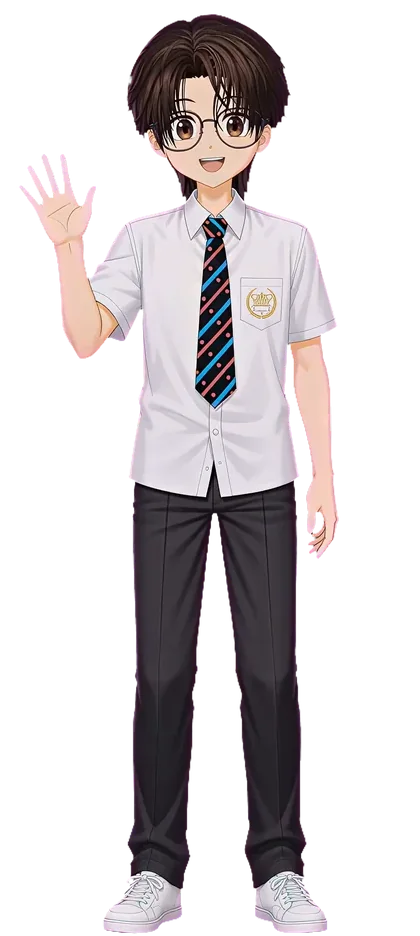
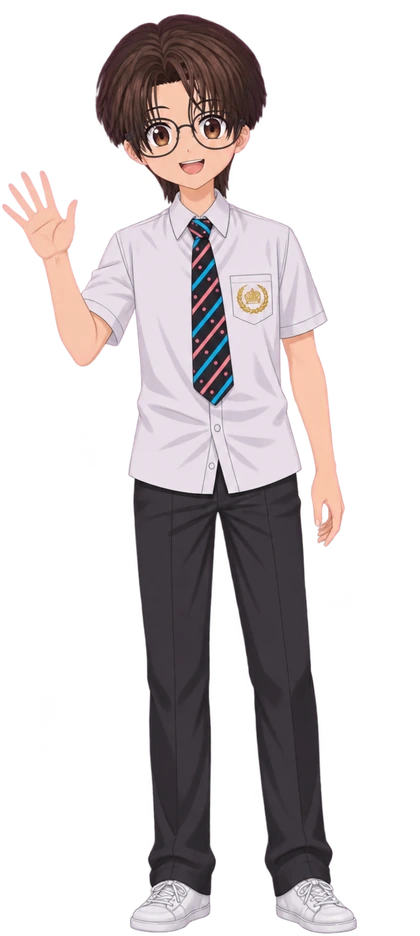
Mascot: use the hi-res idle illustration as the resting frame
Replaces the video's last frame with the 1024x1536 transparent render. Scaled to the existing 920px character height and aligned bottom/centre on the shared 420x936 canvas, so the swap into idle keeps the character in place.

Changed region(s): [[0.0, 0.0, 0.8667, 1.0]]

diff --git a/docs/cn/assets/index-BoST3PRS.js b/docs/cn/assets/index-BoST3PRS.js
@@ -1,4 +1,4 @@
-import{d as st,o as R,a as i,c as r,b as t,u as g,t as m,F as y,r as j,n as k,e as f,f as ot,g as E,h as T,w as nt,T as at,i as S,j as A,k as U,s as it,l as rt,S as lt,m as ct,p as _t,q as ut,v as dt}from"./vendor-s8T_hoLx.js";(function(){const p=document.createElement("link").relList;if(p&&p.supports&&p.supports("modulepreload"))return;for(const n of document.querySelectorAll('link[rel="modulepreload"]'))u(n);new MutationObserver(n=>{for(const e of n)if(e.type==="childList")for(const c of e.addedNodes)c.tagName==="LINK"&&c.rel==="modulepreload"&&u(c)}).observe(document,{childList:!0,subtree:!0});function _(n){const e={};return n.integrity&&(e.integrity=n.integrity),n.referrerPolicy&&(e.referrerPolicy=n.referrerPolicy),n.crossOrigin==="use-credentials"?e.credentials="include":n.crossOrigin==="anonymous"?e.credentials="omit":e.credentials="same-origin",e}function u(n){if(n.ep)return;n.ep=!0;const e=_(n);fetch(n.href,e)}})();const D=st("main",{state:()=>({isMobile:!1}),getters:{},actions:{setIsMobile(w){this.isMobile=w}}}),B={Introduce:"介绍",Conversations:"闲聊",Abilities:"技能",Jobs:"经历",Products:"项目",Works:"作品",Pricing:"服务",Footer:"联系",AgeTitle:"版本号就是年龄",ToggleNavigation:"展开或收起导航",Name:"ZH"},pt=""+new URL("logo-Db9L0T7k.png",import.meta.url).href,O=(w,p)=>{const _=w.__vccOpts||w;for(const[u,n]of p)_[u]=n;return _},mt={class:"navbar navbar-expand-lg py-2 mb-3 jn-navbar-top"},bt={id:"navbar-top",class:"container-xl"},gt={class:"jn-logo"},vt={class:"navbar-brand flex align-items-center align-content-center",href:"#"},ht=["src"],wt={class:"fw-bold"},ft=["title"],kt=["aria-label"],yt={class:"collapse navbar-collapse justify-content-end",id:"navbarNavAltMarkup"},jt={class:"navbar-nav align-items-lg-center"},$t=["href"],Lt={class:"jn-language-switch ms-lg-3 mt-2 mt-lg-0","aria-label":"Language switcher"},Tt={__name:"Nav",setup(w){const p=f(0),_=window.location.pathname.startsWith("/cn")?"cn":"en",u=()=>{const n=new Date,e=new Date("1997-05-09"),c=n.getTime()-e.getTime(),s=new Date(c),o=Math.abs(s.getUTCFullYear()-1970)+s.getMonth()/12;p.value=o.toFixed(2)};return R(()=>{u()}),(n,e)=>(i(),r("header",mt,[t("nav",bt,[t("div",gt,[t("a",vt,[t("span",null,[t("img",{src:g(pt),alt:"logo",class:"jn-logo-img"},null,8,ht)]),t("span",wt,m(g(B).Name),1),t("span",{class:"fw-lighter",title:g(B).AgeTitle},".v"+m(p.value),9,ft)])]),t("button",{class:"navbar-toggler",type:"button","data-bs-toggle":"collapse","data-bs-target":"#navbarNavAltMarkup","aria-controls":"navbarNavAltMarkup","aria-expanded":"false","aria-label":g(B).ToggleNavigation},[...e[0]||(e[0]=[t("span",{class:"navbar-toggler-icon bg-transparent"},null,-1)])],8,kt),t("div",yt,[t("div",jt,[(i(),r(y,null,j(["Introduce","Conversations","Abilities","Jobs","Products","Works","Pricing","Footer"],c=>t("a",{key:c,class:"nav-link",href:`#${c}`},m(g(B)[c]),9,$t)),64)),t("div",Lt,[t("a",{href:"/cn/",class:k(["jn-language-link",{active:g(_)==="cn"}])},"中文",2),e[1]||(e[1]=t("span",{class:"jn-language-divider"},"/",-1)),t("a",{href:"/en/",class:k(["jn-language-link",{active:g(_)==="en"}])},"EN",2)])])])])]))}},Ot=O(Tt,[["__scopeId","data-v-7a4690d1"]]),Pt=""+new URL("idle-BwSroPrR.webp",import.meta.url).href,Rt=""+new URL("sleep-CzAoqFjt.webp",import.meta.url).href,Et=""+new URL("wake-00-DN9Y4CSs.webp",import.meta.url).href,Mt=""+new URL("wake-01-Bv2dePcG.webp",import.meta.url).href,St=""+new URL("wake-02-Dmfc-U6B.webp",import.meta.url).href,xt=""+new URL("wake-03-CuV1K9-x.webp",import.meta.url).href,It=""+new URL("wake-04-BV5S5SvW.webp",import.meta.url).href,At=""+new URL("wake-05-D4VqDZ3a.webp",import.meta.url).href,Ut=""+new URL("wake-06-CJhW7F4F.webp",import.meta.url).href,Dt=""+new URL("wake-07-CzwcbVn1.webp",import.meta.url).href,Ct=""+new URL("wake-08-D4vhZMsg.webp",import.meta.url).href,Ht=""+new URL("wake-09-BevarwNR.webp",import.meta.url).href,Bt=""+new URL("wake-10-ClhOjqDR.webp",import.meta.url).href,Vt=""+new URL("wake-11-DqSW_ptq.webp",import.meta.url).href,Ft=""+new URL("wake-12-D0e6i30U.webp",import.meta.url).href,zt=""+new URL("wake-13-CSTUK416.webp",import.meta.url).href,Wt=""+new URL("wake-14-6mSzm22m.webp",import.meta.url).href,Nt=""+new URL("wake-15-ybOg6HvE.webp",import.meta.url).href,qt=""+new URL("wake-16-C1YWqiRs.webp",import.meta.url).href,Kt=""+new URL("wake-17-BjNacx78.webp",import.meta.url).href,Zt=""+new URL("wake-18-O_J7od46.webp",import.meta.url).href,Jt=""+new URL("wake-19-C_Ts8d8w.webp",import.meta.url).href,Yt=""+new URL("wake-20-DKbm1HMG.webp",import.meta.url).href,Gt=""+new URL("wake-21-Dydp0pBq.webp",import.meta.url).href,Qt=""+new URL("wake-22-BlcfPlws.webp",import.meta.url).href,Xt=""+new URL("wake-23-dwHPlfZE.webp",import.meta.url).href,te=""+new URL("wake-24-DfC45VwX.webp",import.meta.url).href,ee=""+new URL("wake-25-CZkZKRLK.webp",import.meta.url).href,se=""+new URL("wake-26-Bblns2dO.webp",import.meta.url).href,oe=""+new URL("wake-27-CPUKTgw8.webp",import.meta.url).href,ne=["src"],ae={key:0,class:"jn-mascot-zzz","aria-hidden":"true"},ie={key:0,class:"jn-mascot-bubble"},re=12,le=3e3,ce={__name:"Mascot",props:{lines:{type:Array,default:()=>[]}},setup(w){const p=Object.assign({"../assets/mascot/idle.webp":Pt,"../assets/mascot/sleep.webp":Rt,"../assets/mascot/wake-00.webp":Et,"../assets/mascot/wake-01.webp":Mt,"../assets/mascot/wake-02.webp":St,"../assets/mascot/wake-03.webp":xt,"../assets/mascot/wake-04.webp":It,"../assets/mascot/wake-05.webp":At,"../assets/mascot/wake-06.webp":Ut,"../assets/mascot/wake-07.webp":Dt,"../assets/mascot/wake-08.webp":Ct,"../assets/mascot/wake-09.webp":Ht,"../assets/mascot/wake-10.webp":Bt,"../assets/mascot/wake-11.webp":Vt,"../assets/mascot/wake-12.webp":Ft,"../assets/mascot/wake-13.webp":zt,"../assets/mascot/wake-14.webp":Wt,"../assets/mascot/wake-15.webp":Nt,"../assets/mascot/wake-16.webp":qt,"../assets/mascot/wake-17.webp":Kt,"../assets/mascot/wake-18.webp":Zt,"../assets/mascot/wake-19.webp":Jt,"../assets/mascot/wake-20.webp":Yt,"../assets/mascot/wake-21.webp":Gt,"../assets/mascot/wake-22.webp":Qt,"../assets/mascot/wake-23.webp":Xt,"../assets/mascot/wake-24.webp":te,"../assets/mascot/wake-25.webp":ee,"../assets/mascot/wake-26.webp":se,"../assets/mascot/wake-27.webp":oe}),_=L=>p[`../assets/mascot/${L}.webp`],u=_("sleep"),n=_("idle"),e=Object.keys(p).filter(L=>L.includes("/wake-")).sort().map(L=>p[L]),c=w,s=f("sleep"),b=f(0),o=f(!1),a=f(!1),d=f(""),l=S(()=>s.value==="wake"?e[b.value]||n:s.value==="sleep"?u:n),v=["……","Hi."],$=S(()=>c.lines&&c.lines.length?c.lines:v);let P=[],M=null;const C=(L,x)=>{const H=setTimeout(L,x);return P.push(H),H},G=()=>{P.forEach(clearTimeout),P=[],M&&(clearInterval(M),M=null)},z=(L=2400)=>{d.value=$.value[Math.floor(Math.random()*$.value.length)],C(()=>{d.value=""},L)},Q=()=>{s.value="wake",b.value=0,M=setInterval(()=>{if(b.value>=e.length-1){clearInterval(M),M=null,s.value="idle";return}b.value+=1},1e3/re)},X=()=>{o.value=!0,s.value!=="sleep"&&z()},tt=()=>{o.value=!1},et=()=>{a.value=!0,z(1700),C(()=>{a.value=!1},640)};return R(()=>{const L=()=>{[...e,n].forEach(x=>{const H=new Image;H.src=x})};if("requestIdleCallback"in window?window.requestIdleCallback(L,{timeout:2e3}):C(L,800),window.matchMedia("(prefers-reduced-motion: reduce)").matches){s.value="idle";return}C(Q,le)}),ot(G),(L,x)=>(i(),r("div",{class:k(["jn-mascot",[`is-${s.value}`,{"is-hover":o.value,"is-poke":a.value}]]),onMouseenter:X,onMouseleave:tt,onClick:et},[t("img",{class:"jn-mascot-img",src:l.value,alt:"Zihan Huang",draggable:"false"},null,8,ne),s.value==="sleep"?(i(),r("div",ae,[...x[0]||(x[0]=[t("span",{class:"z1"},"z",-1),t("span",{class:"z2"},"z",-1),t("span",{class:"z3"},"Z",-1)])])):E("",!0),T(at,{name:"jn-bubble"},{default:nt(()=>[d.value?(i(),r("p",ie,m(d.value),1)):E("",!0)]),_:1})],34))}},_e=O(ce,[["__scopeId","data-v-afc21274"]]),V={name:"Zihan Huang",subtitle:"一个没什么灵感的小说作者，一个迷路的旅行者。",button:"链接开始！",mascot:["哦，来了个旅行者。","随便坐，别客气。","先喝点什么？","这地板有点响，走轻点。"]},ue=`<p>你好，旅行者，在找什么吗？</p>
+import{d as st,o as R,a as i,c as r,b as t,u as g,t as m,F as y,r as j,n as k,e as f,f as ot,g as E,h as T,w as nt,T as at,i as S,j as A,k as U,s as it,l as rt,S as lt,m as ct,p as _t,q as ut,v as dt}from"./vendor-s8T_hoLx.js";(function(){const p=document.createElement("link").relList;if(p&&p.supports&&p.supports("modulepreload"))return;for(const n of document.querySelectorAll('link[rel="modulepreload"]'))u(n);new MutationObserver(n=>{for(const e of n)if(e.type==="childList")for(const c of e.addedNodes)c.tagName==="LINK"&&c.rel==="modulepreload"&&u(c)}).observe(document,{childList:!0,subtree:!0});function _(n){const e={};return n.integrity&&(e.integrity=n.integrity),n.referrerPolicy&&(e.referrerPolicy=n.referrerPolicy),n.crossOrigin==="use-credentials"?e.credentials="include":n.crossOrigin==="anonymous"?e.credentials="omit":e.credentials="same-origin",e}function u(n){if(n.ep)return;n.ep=!0;const e=_(n);fetch(n.href,e)}})();const D=st("main",{state:()=>({isMobile:!1}),getters:{},actions:{setIsMobile(w){this.isMobile=w}}}),B={Introduce:"介绍",Conversations:"闲聊",Abilities:"技能",Jobs:"经历",Products:"项目",Works:"作品",Pricing:"服务",Footer:"联系",AgeTitle:"版本号就是年龄",ToggleNavigation:"展开或收起导航",Name:"ZH"},pt=""+new URL("logo-Db9L0T7k.png",import.meta.url).href,O=(w,p)=>{const _=w.__vccOpts||w;for(const[u,n]of p)_[u]=n;return _},mt={class:"navbar navbar-expand-lg py-2 mb-3 jn-navbar-top"},bt={id:"navbar-top",class:"container-xl"},gt={class:"jn-logo"},vt={class:"navbar-brand flex align-items-center align-content-center",href:"#"},ht=["src"],wt={class:"fw-bold"},ft=["title"],kt=["aria-label"],yt={class:"collapse navbar-collapse justify-content-end",id:"navbarNavAltMarkup"},jt={class:"navbar-nav align-items-lg-center"},$t=["href"],Lt={class:"jn-language-switch ms-lg-3 mt-2 mt-lg-0","aria-label":"Language switcher"},Tt={__name:"Nav",setup(w){const p=f(0),_=window.location.pathname.startsWith("/cn")?"cn":"en",u=()=>{const n=new Date,e=new Date("1997-05-09"),c=n.getTime()-e.getTime(),s=new Date(c),o=Math.abs(s.getUTCFullYear()-1970)+s.getMonth()/12;p.value=o.toFixed(2)};return R(()=>{u()}),(n,e)=>(i(),r("header",mt,[t("nav",bt,[t("div",gt,[t("a",vt,[t("span",null,[t("img",{src:g(pt),alt:"logo",class:"jn-logo-img"},null,8,ht)]),t("span",wt,m(g(B).Name),1),t("span",{class:"fw-lighter",title:g(B).AgeTitle},".v"+m(p.value),9,ft)])]),t("button",{class:"navbar-toggler",type:"button","data-bs-toggle":"collapse","data-bs-target":"#navbarNavAltMarkup","aria-controls":"navbarNavAltMarkup","aria-expanded":"false","aria-label":g(B).ToggleNavigation},[...e[0]||(e[0]=[t("span",{class:"navbar-toggler-icon bg-transparent"},null,-1)])],8,kt),t("div",yt,[t("div",jt,[(i(),r(y,null,j(["Introduce","Conversations","Abilities","Jobs","Products","Works","Pricing","Footer"],c=>t("a",{key:c,class:"nav-link",href:`#${c}`},m(g(B)[c]),9,$t)),64)),t("div",Lt,[t("a",{href:"/cn/",class:k(["jn-language-link",{active:g(_)==="cn"}])},"中文",2),e[1]||(e[1]=t("span",{class:"jn-language-divider"},"/",-1)),t("a",{href:"/en/",class:k(["jn-language-link",{active:g(_)==="en"}])},"EN",2)])])])])]))}},Ot=O(Tt,[["__scopeId","data-v-7a4690d1"]]),Pt=""+new URL("idle-BpFn34Q6.webp",import.meta.url).href,Rt=""+new URL("sleep-CzAoqFjt.webp",import.meta.url).href,Et=""+new URL("wake-00-DN9Y4CSs.webp",import.meta.url).href,Mt=""+new URL("wake-01-Bv2dePcG.webp",import.meta.url).href,St=""+new URL("wake-02-Dmfc-U6B.webp",import.meta.url).href,xt=""+new URL("wake-03-CuV1K9-x.webp",import.meta.url).href,It=""+new URL("wake-04-BV5S5SvW.webp",import.meta.url).href,At=""+new URL("wake-05-D4VqDZ3a.webp",import.meta.url).href,Ut=""+new URL("wake-06-CJhW7F4F.webp",import.meta.url).href,Dt=""+new URL("wake-07-CzwcbVn1.webp",import.meta.url).href,Ct=""+new URL("wake-08-D4vhZMsg.webp",import.meta.url).href,Ht=""+new URL("wake-09-BevarwNR.webp",import.meta.url).href,Bt=""+new URL("wake-10-ClhOjqDR.webp",import.meta.url).href,Vt=""+new URL("wake-11-DqSW_ptq.webp",import.meta.url).href,Ft=""+new URL("wake-12-D0e6i30U.webp",import.meta.url).href,zt=""+new URL("wake-13-CSTUK416.webp",import.meta.url).href,Wt=""+new URL("wake-14-6mSzm22m.webp",import.meta.url).href,Nt=""+new URL("wake-15-ybOg6HvE.webp",import.meta.url).href,qt=""+new URL("wake-16-C1YWqiRs.webp",import.meta.url).href,Kt=""+new URL("wake-17-BjNacx78.webp",import.meta.url).href,Zt=""+new URL("wake-18-O_J7od46.webp",import.meta.url).href,Jt=""+new URL("wake-19-C_Ts8d8w.webp",import.meta.url).href,Yt=""+new URL("wake-20-DKbm1HMG.webp",import.meta.url).href,Gt=""+new URL("wake-21-Dydp0pBq.webp",import.meta.url).href,Qt=""+new URL("wake-22-BlcfPlws.webp",import.meta.url).href,Xt=""+new URL("wake-23-dwHPlfZE.webp",import.meta.url).href,te=""+new URL("wake-24-DfC45VwX.webp",import.meta.url).href,ee=""+new URL("wake-25-CZkZKRLK.webp",import.meta.url).href,se=""+new URL("wake-26-Bblns2dO.webp",import.meta.url).href,oe=""+new URL("wake-27-CPUKTgw8.webp",import.meta.url).href,ne=["src"],ae={key:0,class:"jn-mascot-zzz","aria-hidden":"true"},ie={key:0,class:"jn-mascot-bubble"},re=12,le=3e3,ce={__name:"Mascot",props:{lines:{type:Array,default:()=>[]}},setup(w){const p=Object.assign({"../assets/mascot/idle.webp":Pt,"../assets/mascot/sleep.webp":Rt,"../assets/mascot/wake-00.webp":Et,"../assets/mascot/wake-01.webp":Mt,"../assets/mascot/wake-02.webp":St,"../assets/mascot/wake-03.webp":xt,"../assets/mascot/wake-04.webp":It,"../assets/mascot/wake-05.webp":At,"../assets/mascot/wake-06.webp":Ut,"../assets/mascot/wake-07.webp":Dt,"../assets/mascot/wake-08.webp":Ct,"../assets/mascot/wake-09.webp":Ht,"../assets/mascot/wake-10.webp":Bt,"../assets/mascot/wake-11.webp":Vt,"../assets/mascot/wake-12.webp":Ft,"../assets/mascot/wake-13.webp":zt,"../assets/mascot/wake-14.webp":Wt,"../assets/mascot/wake-15.webp":Nt,"../assets/mascot/wake-16.webp":qt,"../assets/mascot/wake-17.webp":Kt,"../assets/mascot/wake-18.webp":Zt,"../assets/mascot/wake-19.webp":Jt,"../assets/mascot/wake-20.webp":Yt,"../assets/mascot/wake-21.webp":Gt,"../assets/mascot/wake-22.webp":Qt,"../assets/mascot/wake-23.webp":Xt,"../assets/mascot/wake-24.webp":te,"../assets/mascot/wake-25.webp":ee,"../assets/mascot/wake-26.webp":se,"../assets/mascot/wake-27.webp":oe}),_=L=>p[`../assets/mascot/${L}.webp`],u=_("sleep"),n=_("idle"),e=Object.keys(p).filter(L=>L.includes("/wake-")).sort().map(L=>p[L]),c=w,s=f("sleep"),b=f(0),o=f(!1),a=f(!1),d=f(""),l=S(()=>s.value==="wake"?e[b.value]||n:s.value==="sleep"?u:n),v=["……","Hi."],$=S(()=>c.lines&&c.lines.length?c.lines:v);let P=[],M=null;const C=(L,x)=>{const H=setTimeout(L,x);return P.push(H),H},G=()=>{P.forEach(clearTimeout),P=[],M&&(clearInterval(M),M=null)},z=(L=2400)=>{d.value=$.value[Math.floor(Math.random()*$.value.length)],C(()=>{d.value=""},L)},Q=()=>{s.value="wake",b.value=0,M=setInterval(()=>{if(b.value>=e.length-1){clearInterval(M),M=null,s.value="idle";return}b.value+=1},1e3/re)},X=()=>{o.value=!0,s.value!=="sleep"&&z()},tt=()=>{o.value=!1},et=()=>{a.value=!0,z(1700),C(()=>{a.value=!1},640)};return R(()=>{const L=()=>{[...e,n].forEach(x=>{const H=new Image;H.src=x})};if("requestIdleCallback"in window?window.requestIdleCallback(L,{timeout:2e3}):C(L,800),window.matchMedia("(prefers-reduced-motion: reduce)").matches){s.value="idle";return}C(Q,le)}),ot(G),(L,x)=>(i(),r("div",{class:k(["jn-mascot",[`is-${s.value}`,{"is-hover":o.value,"is-poke":a.value}]]),onMouseenter:X,onMouseleave:tt,onClick:et},[t("img",{class:"jn-mascot-img",src:l.value,alt:"Zihan Huang",draggable:"false"},null,8,ne),s.value==="sleep"?(i(),r("div",ae,[...x[0]||(x[0]=[t("span",{class:"z1"},"z",-1),t("span",{class:"z2"},"z",-1),t("span",{class:"z3"},"Z",-1)])])):E("",!0),T(at,{name:"jn-bubble"},{default:nt(()=>[d.value?(i(),r("p",ie,m(d.value),1)):E("",!0)]),_:1})],34))}},_e=O(ce,[["__scopeId","data-v-afc21274"]]),V={name:"Zihan Huang",subtitle:"一个没什么灵感的小说作者，一个迷路的旅行者。",button:"链接开始！",mascot:["哦，来了个旅行者。","随便坐，别客气。","先喝点什么？","这地板有点响，走轻点。"]},ue=`<p>你好，旅行者，在找什么吗？</p>
 <p>欢迎来到 Zihan Huang，也就是 Henry 的线上小酒馆。这里收录了关于他的各种信息——从基本资料，到还算拿得出手的 <strong>技能</strong> 与 <strong>属性</strong>，以及曾经雇佣过他的 <strong>公司</strong>。</p>
 <p>这个地方存在的意义？大概只是想在这片充满冒险的世界里，留下几道属于他的旅途痕迹。</p>
 <p>在点杯喝的之前，有几件事要说明：</p>

diff --git a/docs/en/assets/index-DN1UQKK4.js b/docs/en/assets/index-DN1UQKK4.js
@@ -1,4 +1,4 @@
-import{d as st,o as E,a as i,c as r,b as t,u as g,t as p,F as y,r as j,n as k,e as f,f as ot,g as R,h as T,w as at,T as nt,i as M,j as A,k as C,s as it,l as rt,S as lt,m as ct,p as ut,q as _t,v as dt}from"./vendor-s8T_hoLx.js";(function(){const m=document.createElement("link").relList;if(m&&m.supports&&m.supports("modulepreload"))return;for(const a of document.querySelectorAll('link[rel="modulepreload"]'))_(a);new MutationObserver(a=>{for(const e of a)if(e.type==="childList")for(const c of e.addedNodes)c.tagName==="LINK"&&c.rel==="modulepreload"&&_(c)}).observe(document,{childList:!0,subtree:!0});function u(a){const e={};return a.integrity&&(e.integrity=a.integrity),a.referrerPolicy&&(e.referrerPolicy=a.referrerPolicy),a.crossOrigin==="use-credentials"?e.credentials="include":a.crossOrigin==="anonymous"?e.credentials="omit":e.credentials="same-origin",e}function _(a){if(a.ep)return;a.ep=!0;const e=u(a);fetch(a.href,e)}})();const U=st("main",{state:()=>({isMobile:!1}),getters:{},actions:{setIsMobile(w){this.isMobile=w}}}),B={Introduce:"Introduce",Conversations:"Conversations",Abilities:"Abilities",Jobs:"Jobs",Products:"Products",Works:"Works",Pricing:"Pricing",Footer:"Contact",AgeTitle:"Version is Age",ToggleNavigation:"Toggle navigation",Name:"ZH"},mt=""+new URL("logo-Db9L0T7k.png",import.meta.url).href,O=(w,m)=>{const u=w.__vccOpts||w;for(const[_,a]of m)u[_]=a;return u},pt={class:"navbar navbar-expand-lg py-2 mb-3 jn-navbar-top"},bt={id:"navbar-top",class:"container-xl"},gt={class:"jn-logo"},ht={class:"navbar-brand flex align-items-center align-content-center",href:"#"},vt=["src"],wt={class:"fw-bold"},ft=["title"],kt=["aria-label"],yt={class:"collapse navbar-collapse justify-content-end",id:"navbarNavAltMarkup"},jt={class:"navbar-nav align-items-lg-center"},$t=["href"],Lt={class:"jn-language-switch ms-lg-3 mt-2 mt-lg-0","aria-label":"Language switcher"},Tt={__name:"Nav",setup(w){const m=f(0),u=window.location.pathname.startsWith("/cn")?"cn":"en",_=()=>{const a=new Date,e=new Date("1997-05-09"),c=a.getTime()-e.getTime(),s=new Date(c),o=Math.abs(s.getUTCFullYear()-1970)+s.getMonth()/12;m.value=o.toFixed(2)};return E(()=>{_()}),(a,e)=>(i(),r("header",pt,[t("nav",bt,[t("div",gt,[t("a",ht,[t("span",null,[t("img",{src:g(mt),alt:"logo",class:"jn-logo-img"},null,8,vt)]),t("span",wt,p(g(B).Name),1),t("span",{class:"fw-lighter",title:g(B).AgeTitle},".v"+p(m.value),9,ft)])]),t("button",{class:"navbar-toggler",type:"button","data-bs-toggle":"collapse","data-bs-target":"#navbarNavAltMarkup","aria-controls":"navbarNavAltMarkup","aria-expanded":"false","aria-label":g(B).ToggleNavigation},[...e[0]||(e[0]=[t("span",{class:"navbar-toggler-icon bg-transparent"},null,-1)])],8,kt),t("div",yt,[t("div",jt,[(i(),r(y,null,j(["Introduce","Conversations","Abilities","Jobs","Products","Works","Pricing","Footer"],c=>t("a",{key:c,class:"nav-link",href:`#${c}`},p(g(B)[c]),9,$t)),64)),t("div",Lt,[t("a",{href:"/cn/",class:k(["jn-language-link",{active:g(u)==="cn"}])},"中文",2),e[1]||(e[1]=t("span",{class:"jn-language-divider"},"/",-1)),t("a",{href:"/en/",class:k(["jn-language-link",{active:g(u)==="en"}])},"EN",2)])])])])]))}},Ot=O(Tt,[["__scopeId","data-v-7a4690d1"]]),Pt=""+new URL("idle-BwSroPrR.webp",import.meta.url).href,Et=""+new URL("sleep-CzAoqFjt.webp",import.meta.url).href,Rt=""+new URL("wake-00-DN9Y4CSs.webp",import.meta.url).href,St=""+new URL("wake-01-Bv2dePcG.webp",import.meta.url).href,Mt=""+new URL("wake-02-Dmfc-U6B.webp",import.meta.url).href,It=""+new URL("wake-03-CuV1K9-x.webp",import.meta.url).href,xt=""+new URL("wake-04-BV5S5SvW.webp",import.meta.url).href,At=""+new URL("wake-05-D4VqDZ3a.webp",import.meta.url).href,Ct=""+new URL("wake-06-CJhW7F4F.webp",import.meta.url).href,Ut=""+new URL("wake-07-CzwcbVn1.webp",import.meta.url).href,Dt=""+new URL("wake-08-D4vhZMsg.webp",import.meta.url).href,Ht=""+new URL("wake-09-BevarwNR.webp",import.meta.url).href,Bt=""+new URL("wake-10-ClhOjqDR.webp",import.meta.url).href,Vt=""+new URL("wake-11-DqSW_ptq.webp",import.meta.url).href,Ft=""+new URL("wake-12-D0e6i30U.webp",import.meta.url).href,Wt=""+new URL("wake-13-CSTUK416.webp",import.meta.url).href,zt=""+new URL("wake-14-6mSzm22m.webp",import.meta.url).href,Nt=""+new URL("wake-15-ybOg6HvE.webp",import.meta.url).href,qt=""+new URL("wake-16-C1YWqiRs.webp",import.meta.url).href,Kt=""+new URL("wake-17-BjNacx78.webp",import.meta.url).href,Zt=""+new URL("wake-18-O_J7od46.webp",import.meta.url).href,Jt=""+new URL("wake-19-C_Ts8d8w.webp",import.meta.url).href,Gt=""+new URL("wake-20-DKbm1HMG.webp",import.meta.url).href,Yt=""+new URL("wake-21-Dydp0pBq.webp",import.meta.url).href,Qt=""+new URL("wake-22-BlcfPlws.webp",import.meta.url).href,Xt=""+new URL("wake-23-dwHPlfZE.webp",import.meta.url).href,te=""+new URL("wake-24-DfC45VwX.webp",import.meta.url).href,ee=""+new URL("wake-25-CZkZKRLK.webp",import.meta.url).href,se=""+new URL("wake-26-Bblns2dO.webp",import.meta.url).href,oe=""+new URL("wake-27-CPUKTgw8.webp",import.meta.url).href,ae=["src"],ne={key:0,class:"jn-mascot-zzz","aria-hidden":"true"},ie={key:0,class:"jn-mascot-bubble"},re=12,le=3e3,ce={__name:"Mascot",props:{lines:{type:Array,default:()=>[]}},setup(w){const m=Object.assign({"../assets/mascot/idle.webp":Pt,"../assets/mascot/sleep.webp":Et,"../assets/mascot/wake-00.webp":Rt,"../assets/mascot/wake-01.webp":St,"../assets/mascot/wake-02.webp":Mt,"../assets/mascot/wake-03.webp":It,"../assets/mascot/wake-04.webp":xt,"../assets/mascot/wake-05.webp":At,"../assets/mascot/wake-06.webp":Ct,"../assets/mascot/wake-07.webp":Ut,"../assets/mascot/wake-08.webp":Dt,"../assets/mascot/wake-09.webp":Ht,"../assets/mascot/wake-10.webp":Bt,"../assets/mascot/wake-11.webp":Vt,"../assets/mascot/wake-12.webp":Ft,"../assets/mascot/wake-13.webp":Wt,"../assets/mascot/wake-14.webp":zt,"../assets/mascot/wake-15.webp":Nt,"../assets/mascot/wake-16.webp":qt,"../assets/mascot/wake-17.webp":Kt,"../assets/mascot/wake-18.webp":Zt,"../assets/mascot/wake-19.webp":Jt,"../assets/mascot/wake-20.webp":Gt,"../assets/mascot/wake-21.webp":Yt,"../assets/mascot/wake-22.webp":Qt,"../assets/mascot/wake-23.webp":Xt,"../assets/mascot/wake-24.webp":te,"../assets/mascot/wake-25.webp":ee,"../assets/mascot/wake-26.webp":se,"../assets/mascot/wake-27.webp":oe}),u=L=>m[`../assets/mascot/${L}.webp`],_=u("sleep"),a=u("idle"),e=Object.keys(m).filter(L=>L.includes("/wake-")).sort().map(L=>m[L]),c=w,s=f("sleep"),b=f(0),o=f(!1),n=f(!1),d=f(""),l=M(()=>s.value==="wake"?e[b.value]||a:s.value==="sleep"?_:a),h=["……","Hi."],$=M(()=>c.lines&&c.lines.length?c.lines:h);let P=[],S=null;const D=(L,I)=>{const H=setTimeout(L,I);return P.push(H),H},Y=()=>{P.forEach(clearTimeout),P=[],S&&(clearInterval(S),S=null)},W=(L=2400)=>{d.value=$.value[Math.floor(Math.random()*$.value.length)],D(()=>{d.value=""},L)},Q=()=>{s.value="wake",b.value=0,S=setInterval(()=>{if(b.value>=e.length-1){clearInterval(S),S=null,s.value="idle";return}b.value+=1},1e3/re)},X=()=>{o.value=!0,s.value!=="sleep"&&W()},tt=()=>{o.value=!1},et=()=>{n.value=!0,W(1700),D(()=>{n.value=!1},640)};return E(()=>{const L=()=>{[...e,a].forEach(I=>{const H=new Image;H.src=I})};if("requestIdleCallback"in window?window.requestIdleCallback(L,{timeout:2e3}):D(L,800),window.matchMedia("(prefers-reduced-motion: reduce)").matches){s.value="idle";return}D(Q,le)}),ot(Y),(L,I)=>(i(),r("div",{class:k(["jn-mascot",[`is-${s.value}`,{"is-hover":o.value,"is-poke":n.value}]]),onMouseenter:X,onMouseleave:tt,onClick:et},[t("img",{class:"jn-mascot-img",src:l.value,alt:"Zihan Huang",draggable:"false"},null,8,ae),s.value==="sleep"?(i(),r("div",ne,[...I[0]||(I[0]=[t("span",{class:"z1"},"z",-1),t("span",{class:"z2"},"z",-1),t("span",{class:"z3"},"Z",-1)])])):R("",!0),T(nt,{name:"jn-bubble"},{default:at(()=>[d.value?(i(),r("p",ie,p(d.value),1)):R("",!0)]),_:1})],34))}},ue=O(ce,[["__scopeId","data-v-afc21274"]]),V={name:"Zihan Huang",subtitle:"An uninspired novelist, lost traveler.",button:"Link Start!",mascot:["Oh, a traveler.","Welcome to the bistro.","Grab a drink and stay a while.","Careful, the floor creaks."]},_e=`<p>Hello, traveler, looking for something?</p>
+import{d as st,o as E,a as i,c as r,b as t,u as g,t as p,F as y,r as j,n as k,e as f,f as ot,g as R,h as T,w as at,T as nt,i as M,j as A,k as C,s as it,l as rt,S as lt,m as ct,p as ut,q as _t,v as dt}from"./vendor-s8T_hoLx.js";(function(){const m=document.createElement("link").relList;if(m&&m.supports&&m.supports("modulepreload"))return;for(const a of document.querySelectorAll('link[rel="modulepreload"]'))_(a);new MutationObserver(a=>{for(const e of a)if(e.type==="childList")for(const c of e.addedNodes)c.tagName==="LINK"&&c.rel==="modulepreload"&&_(c)}).observe(document,{childList:!0,subtree:!0});function u(a){const e={};return a.integrity&&(e.integrity=a.integrity),a.referrerPolicy&&(e.referrerPolicy=a.referrerPolicy),a.crossOrigin==="use-credentials"?e.credentials="include":a.crossOrigin==="anonymous"?e.credentials="omit":e.credentials="same-origin",e}function _(a){if(a.ep)return;a.ep=!0;const e=u(a);fetch(a.href,e)}})();const U=st("main",{state:()=>({isMobile:!1}),getters:{},actions:{setIsMobile(w){this.isMobile=w}}}),B={Introduce:"Introduce",Conversations:"Conversations",Abilities:"Abilities",Jobs:"Jobs",Products:"Products",Works:"Works",Pricing:"Pricing",Footer:"Contact",AgeTitle:"Version is Age",ToggleNavigation:"Toggle navigation",Name:"ZH"},mt=""+new URL("logo-Db9L0T7k.png",import.meta.url).href,O=(w,m)=>{const u=w.__vccOpts||w;for(const[_,a]of m)u[_]=a;return u},pt={class:"navbar navbar-expand-lg py-2 mb-3 jn-navbar-top"},bt={id:"navbar-top",class:"container-xl"},gt={class:"jn-logo"},ht={class:"navbar-brand flex align-items-center align-content-center",href:"#"},vt=["src"],wt={class:"fw-bold"},ft=["title"],kt=["aria-label"],yt={class:"collapse navbar-collapse justify-content-end",id:"navbarNavAltMarkup"},jt={class:"navbar-nav align-items-lg-center"},$t=["href"],Lt={class:"jn-language-switch ms-lg-3 mt-2 mt-lg-0","aria-label":"Language switcher"},Tt={__name:"Nav",setup(w){const m=f(0),u=window.location.pathname.startsWith("/cn")?"cn":"en",_=()=>{const a=new Date,e=new Date("1997-05-09"),c=a.getTime()-e.getTime(),s=new Date(c),o=Math.abs(s.getUTCFullYear()-1970)+s.getMonth()/12;m.value=o.toFixed(2)};return E(()=>{_()}),(a,e)=>(i(),r("header",pt,[t("nav",bt,[t("div",gt,[t("a",ht,[t("span",null,[t("img",{src:g(mt),alt:"logo",class:"jn-logo-img"},null,8,vt)]),t("span",wt,p(g(B).Name),1),t("span",{class:"fw-lighter",title:g(B).AgeTitle},".v"+p(m.value),9,ft)])]),t("button",{class:"navbar-toggler",type:"button","data-bs-toggle":"collapse","data-bs-target":"#navbarNavAltMarkup","aria-controls":"navbarNavAltMarkup","aria-expanded":"false","aria-label":g(B).ToggleNavigation},[...e[0]||(e[0]=[t("span",{class:"navbar-toggler-icon bg-transparent"},null,-1)])],8,kt),t("div",yt,[t("div",jt,[(i(),r(y,null,j(["Introduce","Conversations","Abilities","Jobs","Products","Works","Pricing","Footer"],c=>t("a",{key:c,class:"nav-link",href:`#${c}`},p(g(B)[c]),9,$t)),64)),t("div",Lt,[t("a",{href:"/cn/",class:k(["jn-language-link",{active:g(u)==="cn"}])},"中文",2),e[1]||(e[1]=t("span",{class:"jn-language-divider"},"/",-1)),t("a",{href:"/en/",class:k(["jn-language-link",{active:g(u)==="en"}])},"EN",2)])])])])]))}},Ot=O(Tt,[["__scopeId","data-v-7a4690d1"]]),Pt=""+new URL("idle-BpFn34Q6.webp",import.meta.url).href,Et=""+new URL("sleep-CzAoqFjt.webp",import.meta.url).href,Rt=""+new URL("wake-00-DN9Y4CSs.webp",import.meta.url).href,St=""+new URL("wake-01-Bv2dePcG.webp",import.meta.url).href,Mt=""+new URL("wake-02-Dmfc-U6B.webp",import.meta.url).href,It=""+new URL("wake-03-CuV1K9-x.webp",import.meta.url).href,xt=""+new URL("wake-04-BV5S5SvW.webp",import.meta.url).href,At=""+new URL("wake-05-D4VqDZ3a.webp",import.meta.url).href,Ct=""+new URL("wake-06-CJhW7F4F.webp",import.meta.url).href,Ut=""+new URL("wake-07-CzwcbVn1.webp",import.meta.url).href,Dt=""+new URL("wake-08-D4vhZMsg.webp",import.meta.url).href,Ht=""+new URL("wake-09-BevarwNR.webp",import.meta.url).href,Bt=""+new URL("wake-10-ClhOjqDR.webp",import.meta.url).href,Vt=""+new URL("wake-11-DqSW_ptq.webp",import.meta.url).href,Ft=""+new URL("wake-12-D0e6i30U.webp",import.meta.url).href,Wt=""+new URL("wake-13-CSTUK416.webp",import.meta.url).href,zt=""+new URL("wake-14-6mSzm22m.webp",import.meta.url).href,Nt=""+new URL("wake-15-ybOg6HvE.webp",import.meta.url).href,qt=""+new URL("wake-16-C1YWqiRs.webp",import.meta.url).href,Kt=""+new URL("wake-17-BjNacx78.webp",import.meta.url).href,Zt=""+new URL("wake-18-O_J7od46.webp",import.meta.url).href,Jt=""+new URL("wake-19-C_Ts8d8w.webp",import.meta.url).href,Gt=""+new URL("wake-20-DKbm1HMG.webp",import.meta.url).href,Yt=""+new URL("wake-21-Dydp0pBq.webp",import.meta.url).href,Qt=""+new URL("wake-22-BlcfPlws.webp",import.meta.url).href,Xt=""+new URL("wake-23-dwHPlfZE.webp",import.meta.url).href,te=""+new URL("wake-24-DfC45VwX.webp",import.meta.url).href,ee=""+new URL("wake-25-CZkZKRLK.webp",import.meta.url).href,se=""+new URL("wake-26-Bblns2dO.webp",import.meta.url).href,oe=""+new URL("wake-27-CPUKTgw8.webp",import.meta.url).href,ae=["src"],ne={key:0,class:"jn-mascot-zzz","aria-hidden":"true"},ie={key:0,class:"jn-mascot-bubble"},re=12,le=3e3,ce={__name:"Mascot",props:{lines:{type:Array,default:()=>[]}},setup(w){const m=Object.assign({"../assets/mascot/idle.webp":Pt,"../assets/mascot/sleep.webp":Et,"../assets/mascot/wake-00.webp":Rt,"../assets/mascot/wake-01.webp":St,"../assets/mascot/wake-02.webp":Mt,"../assets/mascot/wake-03.webp":It,"../assets/mascot/wake-04.webp":xt,"../assets/mascot/wake-05.webp":At,"../assets/mascot/wake-06.webp":Ct,"../assets/mascot/wake-07.webp":Ut,"../assets/mascot/wake-08.webp":Dt,"../assets/mascot/wake-09.webp":Ht,"../assets/mascot/wake-10.webp":Bt,"../assets/mascot/wake-11.webp":Vt,"../assets/mascot/wake-12.webp":Ft,"../assets/mascot/wake-13.webp":Wt,"../assets/mascot/wake-14.webp":zt,"../assets/mascot/wake-15.webp":Nt,"../assets/mascot/wake-16.webp":qt,"../assets/mascot/wake-17.webp":Kt,"../assets/mascot/wake-18.webp":Zt,"../assets/mascot/wake-19.webp":Jt,"../assets/mascot/wake-20.webp":Gt,"../assets/mascot/wake-21.webp":Yt,"../assets/mascot/wake-22.webp":Qt,"../assets/mascot/wake-23.webp":Xt,"../assets/mascot/wake-24.webp":te,"../assets/mascot/wake-25.webp":ee,"../assets/mascot/wake-26.webp":se,"../assets/mascot/wake-27.webp":oe}),u=L=>m[`../assets/mascot/${L}.webp`],_=u("sleep"),a=u("idle"),e=Object.keys(m).filter(L=>L.includes("/wake-")).sort().map(L=>m[L]),c=w,s=f("sleep"),b=f(0),o=f(!1),n=f(!1),d=f(""),l=M(()=>s.value==="wake"?e[b.value]||a:s.value==="sleep"?_:a),h=["……","Hi."],$=M(()=>c.lines&&c.lines.length?c.lines:h);let P=[],S=null;const D=(L,I)=>{const H=setTimeout(L,I);return P.push(H),H},Y=()=>{P.forEach(clearTimeout),P=[],S&&(clearInterval(S),S=null)},W=(L=2400)=>{d.value=$.value[Math.floor(Math.random()*$.value.length)],D(()=>{d.value=""},L)},Q=()=>{s.value="wake",b.value=0,S=setInterval(()=>{if(b.value>=e.length-1){clearInterval(S),S=null,s.value="idle";return}b.value+=1},1e3/re)},X=()=>{o.value=!0,s.value!=="sleep"&&W()},tt=()=>{o.value=!1},et=()=>{n.value=!0,W(1700),D(()=>{n.value=!1},640)};return E(()=>{const L=()=>{[...e,a].forEach(I=>{const H=new Image;H.src=I})};if("requestIdleCallback"in window?window.requestIdleCallback(L,{timeout:2e3}):D(L,800),window.matchMedia("(prefers-reduced-motion: reduce)").matches){s.value="idle";return}D(Q,le)}),ot(Y),(L,I)=>(i(),r("div",{class:k(["jn-mascot",[`is-${s.value}`,{"is-hover":o.value,"is-poke":n.value}]]),onMouseenter:X,onMouseleave:tt,onClick:et},[t("img",{class:"jn-mascot-img",src:l.value,alt:"Zihan Huang",draggable:"false"},null,8,ae),s.value==="sleep"?(i(),r("div",ne,[...I[0]||(I[0]=[t("span",{class:"z1"},"z",-1),t("span",{class:"z2"},"z",-1),t("span",{class:"z3"},"Z",-1)])])):R("",!0),T(nt,{name:"jn-bubble"},{default:at(()=>[d.value?(i(),r("p",ie,p(d.value),1)):R("",!0)]),_:1})],34))}},ue=O(ce,[["__scopeId","data-v-afc21274"]]),V={name:"Zihan Huang",subtitle:"An uninspired novelist, lost traveler.",button:"Link Start!",mascot:["Oh, a traveler.","Welcome to the bistro.","Grab a drink and stay a while.","Careful, the floor creaks."]},_e=`<p>Hello, traveler, looking for something?</p>
 <p>Welcome to the online bistro of Zihan Huang, aka Henry. Here, you’ll find all his info—from basic details to impressive <strong>Traits</strong> and <strong>Elements</strong>, as well as the <strong>Companies</strong> that have hired him.</p>
 <p>The purpose of this place? It’s just a trace of his journey in this adventurous world.</p>
 <p>Before you grab a drink, there are a few things to note:</p>

diff --git a/docs/cn/index.html b/docs/cn/index.html
@@ -40,7 +40,7 @@
       100% { transform: rotate(360deg); }
     }
   </style>
-  <script type="module" crossorigin src="./assets/index-S23ftZl_.js"></script>
+  <script type="module" crossorigin src="./assets/index-BoST3PRS.js"></script>
   <link rel="modulepreload" crossorigin href="./assets/vendor-s8T_hoLx.js">
   <link rel="stylesheet" crossorigin href="./assets/index-gEYVPnX1.css">
 </head>

diff --git a/docs/en/index.html b/docs/en/index.html
@@ -40,7 +40,7 @@
       100% { transform: rotate(360deg); }
     }
   </style>
-  <script type="module" crossorigin src="./assets/index-dHUHMWdG.js"></script>
+  <script type="module" crossorigin src="./assets/index-DN1UQKK4.js"></script>
   <link rel="modulepreload" crossorigin href="./assets/vendor-s8T_hoLx.js">
   <link rel="stylesheet" crossorigin href="./assets/index-gEYVPnX1.css">
 </head>
